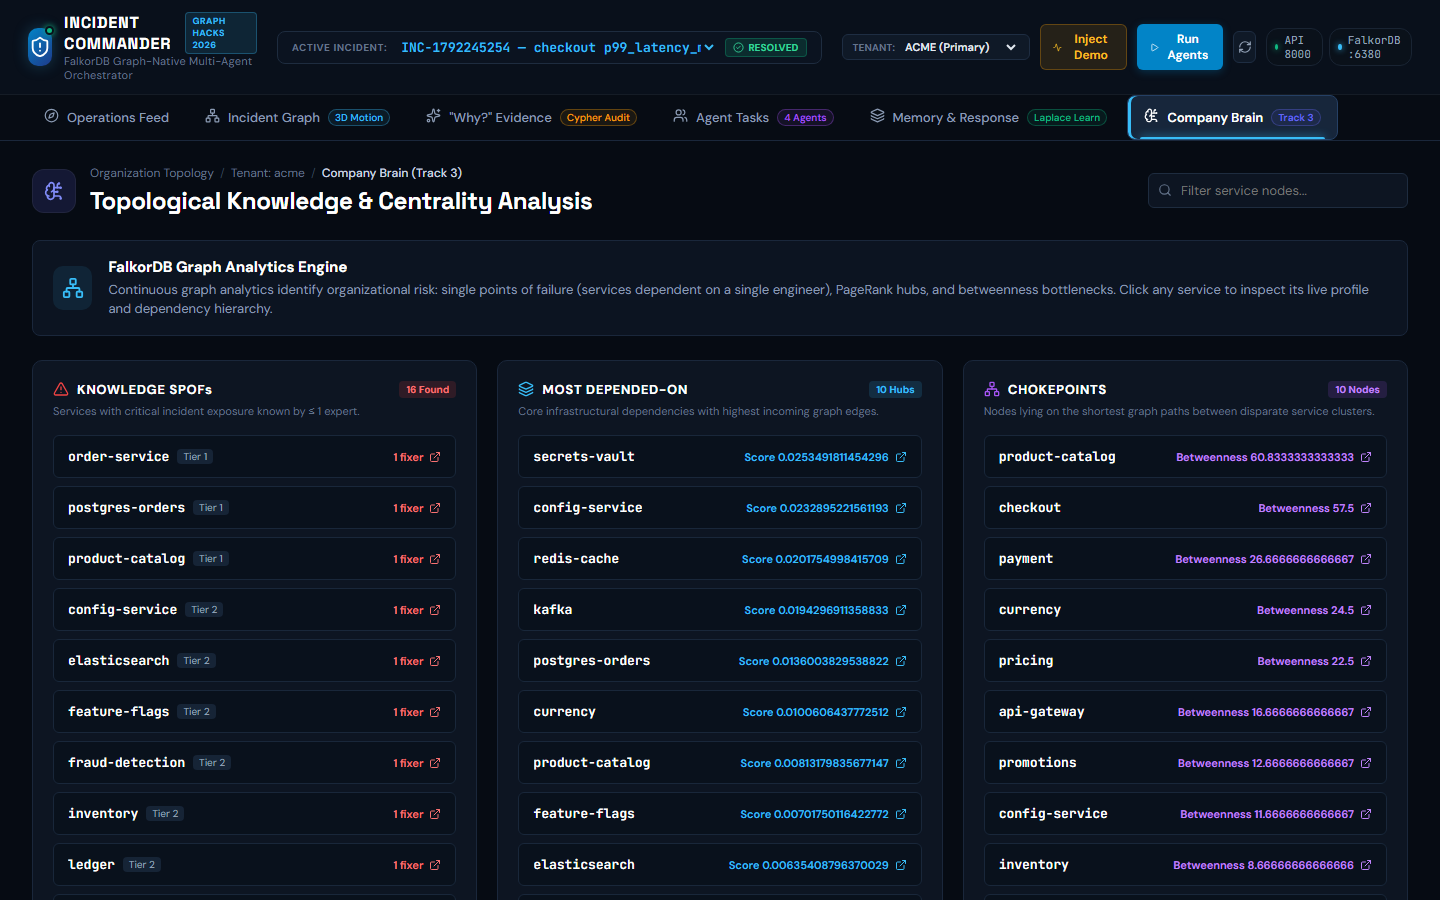
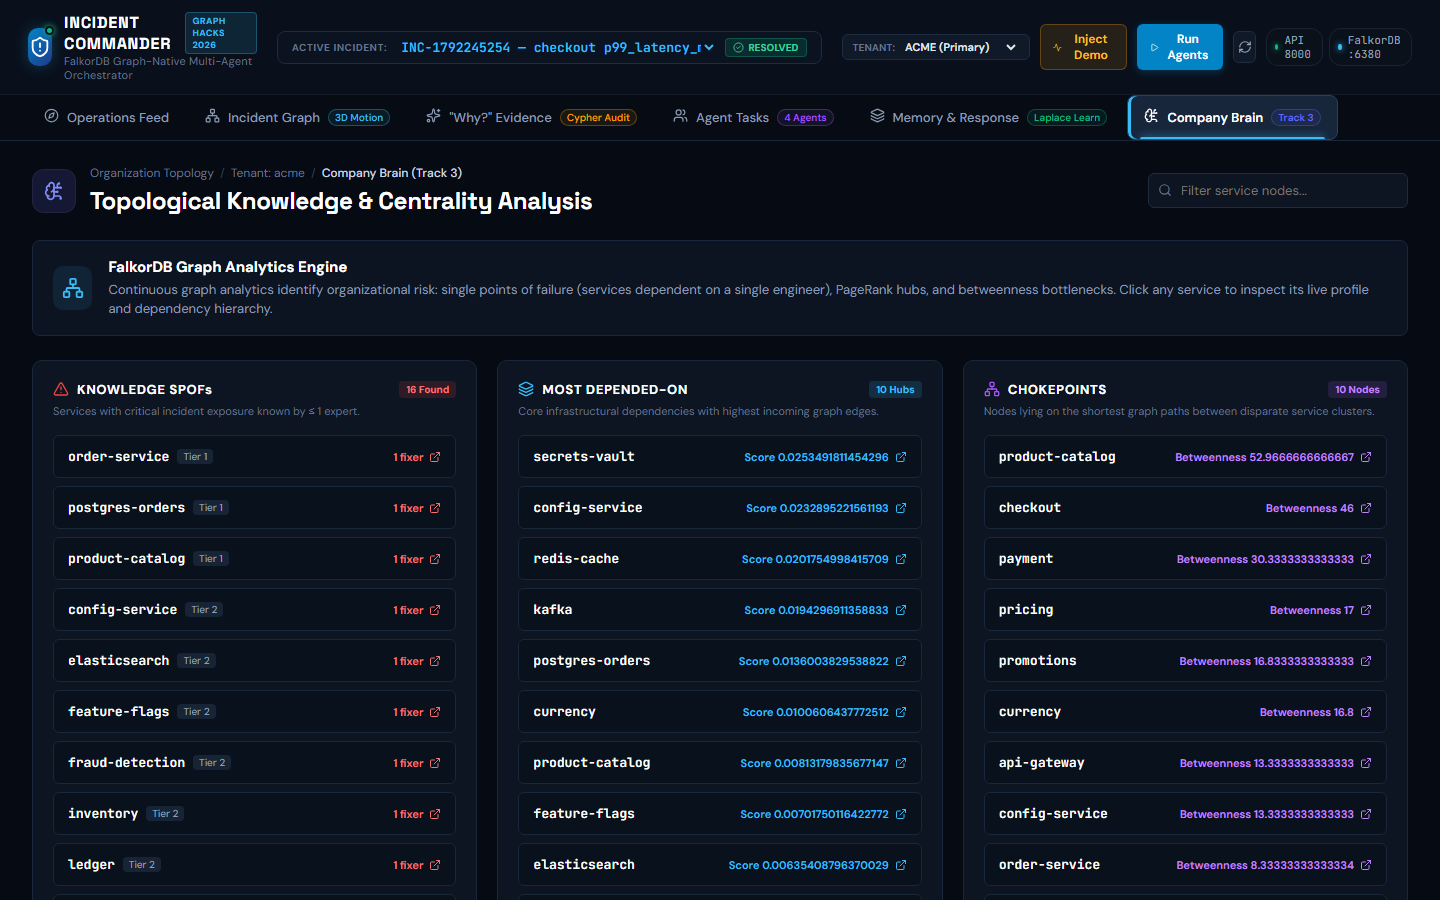
fix(ui): style 2D planar graph layout with distinct node types and force separation
- Add comprehensive Cytoscape stylesheet with themed node types (red Origin with glow, orange Alerting nodes, purple diamond Suspect Change, cyan-bordered Services)
- Tune CoSE force-directed layout with increased node repulsion and relaxed gravity to eliminate clumped nodes and label overlapping
- Add explicit canvas pixel height and cy.resize() upon switching modes or toggling fullscreen
- Highlight explain path with amber directional arrows and dashed purple causal edges
- Add node hover callouts and click-to-inspect service profile handlers for 2D mode
- Capture updated live screenshot docs/screenshots/2c_incident_graph_2d.png

diff --git a/frontend/src/components/Graph3D.tsx b/frontend/src/components/Graph3D.tsx
@@ -1,8 +1,8 @@
-import { useEffect, useRef, useState } from 'react'
+import { useEffect, useRef, useState, useMemo } from 'react'
 import * as THREE from 'three'
 import { OrbitControls } from 'three/examples/jsm/controls/OrbitControls.js'
 import CytoscapeComponent from 'react-cytoscapejs'
-import type { ElementDefinition } from 'cytoscape'
+import type { ElementDefinition, Core } from 'cytoscape'
 import { Maximize2, Minimize2, Zap, RotateCcw, Box, Layers, Eye } from 'lucide-react'
 import type { IncidentDetail } from '../types'
 
@@ -38,6 +38,133 @@ function createTextSprite(text: string, color = '#38bdf8', bg = 'rgba(13, 21, 34
   return sprite
 }
 
+const cytoscapeStylesheet = [
+  {
+    selector: 'node',
+    style: {
+      'label': 'data(label)',
+      'color': '#f8fafc',
+      'font-size': '11px',
+      'font-family': 'DM Sans, -apple-system, BlinkMacSystemFont, sans-serif',
+      'font-weight': 600,
+      'text-valign': 'center' as const,
+      'text-halign': 'center' as const,
+      'background-color': '#131e2e',
+      'border-width': 2,
+      'border-color': '#38bdf8',
+      'width': 68,
+      'height': 68,
+      'text-wrap': 'wrap' as const,
+      'text-max-width': '76px',
+      'text-outline-color': '#09101a',
+      'text-outline-width': 2,
+      'overlay-opacity': 0,
+    }
+  },
+  {
+    selector: 'node[type = "origin"]',
+    style: {
+      'background-color': '#7f1d1d',
+      'border-color': '#ef4444',
+      'border-width': 4,
+      'width': 84,
+      'height': 84,
+      'font-weight': 700,
+      'color': '#ffffff',
+      'font-size': '12px',
+      'text-outline-color': '#450a0a',
+      'text-outline-width': 3,
+    }
+  },
+  {
+    selector: 'node[type = "alerting"]',
+    style: {
+      'background-color': '#9a3412',
+      'border-color': '#f97316',
+      'border-width': 3,
+      'width': 76,
+      'height': 76,
+      'color': '#ffffff',
+      'font-size': '11px',
+      'text-outline-color': '#431407',
+      'text-outline-width': 2,
+    }
+  },
+  {
+    selector: 'node[type = "change"]',
+    style: {
+      'shape': 'diamond' as const,
+      'background-color': '#581c87',
+      'border-color': '#a855f7',
+      'border-width': 3,
+      'width': 80,
+      'height': 80,
+      'color': '#ffffff',
+      'font-size': '11px',
+      'text-outline-color': '#2e1065',
+      'text-outline-width': 2,
+    }
+  },
+  {
+    selector: 'node:selected, node.selected',
+    style: {
+      'border-color': '#ffffff',
+      'border-width': 4,
+      'background-color': '#0284c7',
+    }
+  },
+  {
+    selector: 'edge',
+    style: {
+      'curve-style': 'bezier' as const,
+      'target-arrow-shape': 'triangle' as const,
+      'target-arrow-color': '#64748b',
+      'line-color': '#2a3a50',
+      'width': 2,
+      'opacity': 0.85,
+      'arrow-scale': 1.1,
+    }
+  },
+  {
+    selector: 'edge[type = "change-edge"]',
+    style: {
+      'line-style': 'dashed' as const,
+      'line-color': '#c084fc',
+      'target-arrow-color': '#c084fc',
+      'width': 2.5,
+      'opacity': 0.9,
+    }
+  },
+  {
+    selector: 'edge.highlighted',
+    style: {
+      'line-color': '#f59e0b',
+      'target-arrow-color': '#f59e0b',
+      'width': 4,
+      'opacity': 1.0,
+      'z-index': 99,
+    }
+  }
+]
+
+const coseLayout = {
+  name: 'cose',
+  animate: false,
+  padding: 80,
+  componentSpacing: 140,
+  nodeRepulsion: () => 2500000,
+  nodeOverlap: 60,
+  idealEdgeLength: () => 180,
+  edgeElasticity: () => 80,
+  nestingFactor: 5,
+  gravity: 25,
+  numIter: 1000,
+  initialTemp: 200,
+  coolingFactor: 0.95,
+  minTemp: 1.0,
+  randomize: false
+}
+
 export function Graph3D({ detail, onSelectService }: Graph3DProps) {
   const mountRef = useRef<HTMLDivElement | null>(null)
   const [isFullscreen, setIsFullscreen] = useState(false)
@@ -49,6 +176,7 @@ export function Graph3D({ detail, onSelectService }: Graph3DProps) {
   const controlsRef = useRef<OrbitControls | null>(null)
   const cameraRef = useRef<THREE.PerspectiveCamera | null>(null)
   const animFrameRef = useRef<number | null>(null)
+  const cyRef = useRef<Core | null>(null)
 
   // Fullscreen Esc key handler
   useEffect(() => {
@@ -439,8 +567,16 @@ export function Graph3D({ detail, onSelectService }: Graph3DProps) {
     }
   }, [detail, highlightExplain, viewMode, onSelectService])
 
-  // Center & Re-fit 3D Camera
+  // Center & Re-fit Camera (3D or 2D)
   function handleResetView() {
+    if (viewMode === '2d' && cyRef.current) {
+      cyRef.current.fit(undefined, 80)
+      if (cyRef.current.zoom() > 1.2) {
+        cyRef.current.zoom(1.0)
+        cyRef.current.center()
+      }
+      return
+    }
     if (controlsRef.current && cameraRef.current) {
       controlsRef.current.reset()
       cameraRef.current.position.set(0, 140, 360)
@@ -448,30 +584,82 @@ export function Graph3D({ detail, onSelectService }: Graph3DProps) {
     }
   }
 
-  // 2D Cytoscape Elements (Fallback / Alternative View)
-  const cytoscapeElements: ElementDefinition[] = [
-    ...detail.graph.nodes.map(n => ({
+  // 2D Cytoscape Elements with Styled Classes & Highlighted Explain Path
+  const originName = detail.graph.origin || ''
+  const alertingSet = useMemo(() => new Set(detail.alerting || []), [detail.alerting])
+
+  const cytoscapeElements = useMemo<ElementDefinition[]>(() => {
+    const nodes: ElementDefinition[] = detail.graph.nodes.map(n => ({
       data: {
         id: n.id,
-        label: n.id === detail.graph.origin ? `${n.id} [ORIGIN]` : (n.alerting ? `${n.id} (!)` : n.id),
-        type: n.id === detail.graph.origin ? 'origin' : (n.alerting ? 'alerting' : 'service')
+        label: n.id === originName ? `${n.id}\n[ORIGIN]` : (alertingSet.has(n.id) ? `${n.id}\n(!)` : n.id),
+        type: n.id === originName ? 'origin' : (alertingSet.has(n.id) ? 'alerting' : 'service')
       }
-    })),
-    ...(detail.graph.change ? [{
-      data: {
-        id: detail.graph.change.change,
-        label: detail.graph.change.change,
-        type: 'change'
-      }
-    }] : []),
-    ...detail.graph.edges.map(e => ({
-      data: { id: `${e.source}->${e.target}`, source: e.source, target: e.target }
     }))
-  ]
+
+    if (detail.graph.change) {
+      nodes.push({
+        data: {
+          id: detail.graph.change.change,
+          label: detail.graph.change.change,
+          type: 'change'
+        }
+      })
+    }
+
+    const edges: ElementDefinition[] = detail.graph.edges.map(e => {
+      const isPath = highlightExplain && (
+        (alertingSet.has(e.source) && e.target === originName) ||
+        (e.source === originName)
+      )
+      return {
+        data: {
+          id: `${e.source}->${e.target}`,
+          source: e.source,
+          target: e.target,
+          type: 'dependency'
+        },
+        classes: isPath ? 'highlighted' : ''
+      }
+    })
+
+    if (detail.graph.change && originName) {
+      edges.push({
+        data: {
+          id: `${detail.graph.change.change}->${originName}`,
+          source: detail.graph.change.change,
+          target: originName,
+          type: 'change-edge'
+        },
+        classes: highlightExplain ? 'highlighted' : ''
+      })
+    }
+
+    return [...nodes, ...edges]
+  }, [detail.graph, originName, alertingSet, highlightExplain])
+
+  // Re-run layout and clamp zoom on 2D view toggle or updates
+  useEffect(() => {
+    if (viewMode === '2d' && cyRef.current) {
+      const cy = cyRef.current
+      const timer = setTimeout(() => {
+        cy.resize()
+        cy.layout(coseLayout).run()
+        cy.fit(undefined, 80)
+        if (cy.zoom() > 1.2) {
+          cy.zoom(1.0)
+          cy.center()
+        }
+      }, 50)
+      return () => clearTimeout(timer)
+    }
+  }, [viewMode, isFullscreen, detail, highlightExplain])
+
+  const canvasHeight = isFullscreen ? 'calc(100vh - 54px)' : '640px'
 
   return (
     <div className={`topology-viewer-container ${isFullscreen ? 'fullscreen-mode' : ''}`}>
-      {/* 3D Viewport Controls Bar */}
+      {/* Viewport Controls Bar */}
       <div className="viewer-toolbar">
         <div className="viewer-left-controls">
           <div className="view-mode-toggle">
@@ -508,7 +696,7 @@ export function Graph3D({ detail, onSelectService }: Graph3DProps) {
             type="button"
             className="tool-btn"
             onClick={handleResetView}
-            title="Fit and Center 3D Camera"
+            title={viewMode === '2d' ? 'Fit and Center 2D Graph' : 'Fit and Center 3D Camera'}
           >
             <RotateCcw size={14} />
             <span>Fit View</span>
@@ -546,23 +734,70 @@ export function Graph3D({ detail, onSelectService }: Graph3DProps) {
 
       {/* Main Graph Canvas Area */}
       <div className="canvas-viewport-area">
-        {viewMode === '3d' ? (
-          <div ref={mountRef} className="threejs-canvas-wrapper" />
-        ) : (
-          <div style={{ width: '100%', height: '100%', background: '#070c14' }}>
-            <CytoscapeComponent
-              elements={cytoscapeElements}
-              style={{ width: '100%', height: '100%' }}
-              layout={{ name: 'cose', animate: false, padding: 50 }}
-            />
-          </div>
-        )}
+        {/* 3D WebGL Canvas */}
+        <div
+          ref={mountRef}
+          className="threejs-canvas-wrapper"
+          style={{ display: viewMode === '3d' ? 'block' : 'none', width: '100%', height: '100%' }}
+        />
 
-        {/* 3D Motion Status & Legend Pill */}
+        {/* 2D Cytoscape Planar Layout */}
+        <div
+          className="cytoscape-canvas-wrapper"
+          style={{
+            display: viewMode === '2d' ? 'block' : 'none',
+            width: '100%',
+            height: canvasHeight,
+            minHeight: canvasHeight,
+            background: '#060b13'
+          }}
+        >
+          <CytoscapeComponent
+            elements={cytoscapeElements}
+            stylesheet={cytoscapeStylesheet}
+            style={{ width: '100%', height: canvasHeight }}
+            layout={coseLayout}
+            cy={(cy) => {
+              cyRef.current = cy
+              cy.removeAllListeners()
+              cy.on('tap', 'node', (evt) => {
+                const node = evt.target
+                const type = node.data('type')
+                const id = node.data('id')
+                if (type !== 'change' && onSelectService && id) {
+                  onSelectService(id)
+                }
+              })
+              cy.on('mouseover', 'node', (evt) => {
+                const id = evt.target.data('id')
+                setHoveredNode(id)
+              })
+              cy.on('mouseout', 'node', () => {
+                setHoveredNode(null)
+              })
+              setTimeout(() => {
+                cy.resize()
+                cy.layout(coseLayout).run()
+                cy.fit(undefined, 80)
+                if (cy.zoom() > 1.2) {
+                  cy.zoom(1.0)
+                  cy.center()
+                }
+              }, 60)
+            }}
+          />
+        </div>
+
+        {/* Graph Status & Legend Pill */}
         <div className="motion-legend-card">
           <div className="legend-status-line">
-            <span className="motion-pulse" />
-            <span style={{ fontWeight: 600, color: '#e2e8f0' }}>Progressive 3D Force Field</span>
+            <span
+              className="motion-pulse"
+              style={{ background: viewMode === '2d' ? '#10b981' : '#38bdf8' }}
+            />
+            <span style={{ fontWeight: 600, color: '#e2e8f0' }}>
+              {viewMode === '2d' ? '2D Planar Schematic (Force-Directed)' : 'Progressive 3D Force Field'}
+            </span>
           </div>
           <div className="legend-chips">
             <span className="chip origin"><span className="dot" />Origin: {detail.origin || 'None'}</span>
@@ -570,7 +805,9 @@ export function Graph3D({ detail, onSelectService }: Graph3DProps) {
             <span className="chip change"><span className="dot" />Suspect Change</span>
           </div>
           <div style={{ fontSize: 10, color: '#64748b', marginTop: 4 }}>
-            Drag left to rotate • Right click to pan • Scroll to zoom • Click node to inspect profile
+            {viewMode === '2d'
+              ? 'Click node to inspect service profile • Drag nodes to reposition • Scroll to zoom'
+              : 'Drag left to rotate • Right click to pan • Scroll to zoom • Click node to inspect profile'}
           </div>
         </div>
 

diff --git a/scripts/drive_ui.py b/scripts/drive_ui.py
@@ -66,6 +66,15 @@ def run():
                     exit_btn.click()
                     time.sleep(1)
 
+            # 3b. Test 2D Planar Layout mode
+            log("3b. Switching to 2D Planar Layout...")
+            planar_btn = page.locator("button:has-text('2D Planar Layout')")
+            if planar_btn.is_visible():
+                planar_btn.click()
+                time.sleep(2)
+                page.screenshot(path=os.path.join(SCREENSHOTS_DIR, "2c_incident_graph_2d.png"))
+                log("Saved 2c_incident_graph_2d.png")
+
             # 4. "Why?" Evidence Panel
             log("4. Navigating to http://127.0.0.1:5173/#/why ...")
             page.goto("http://127.0.0.1:5173/#/why")
